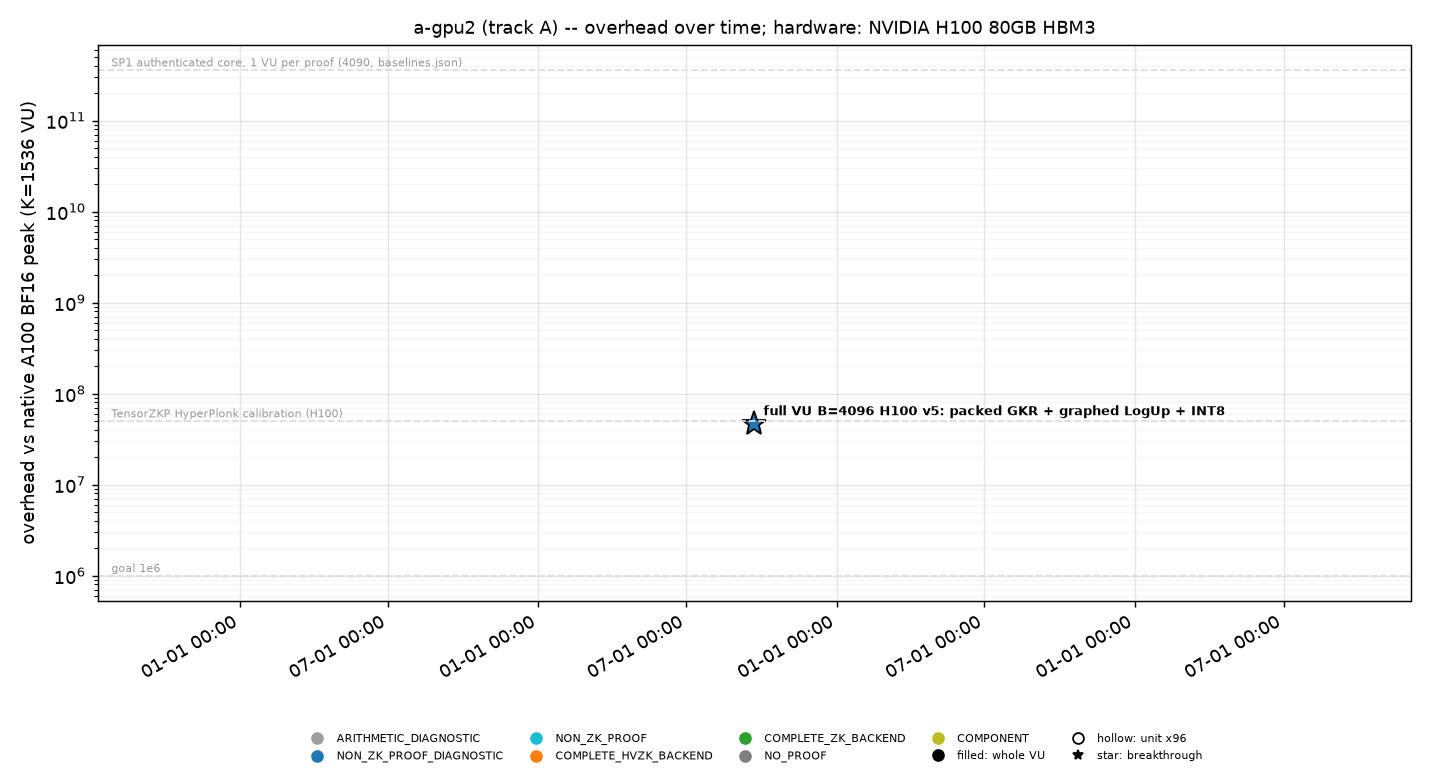
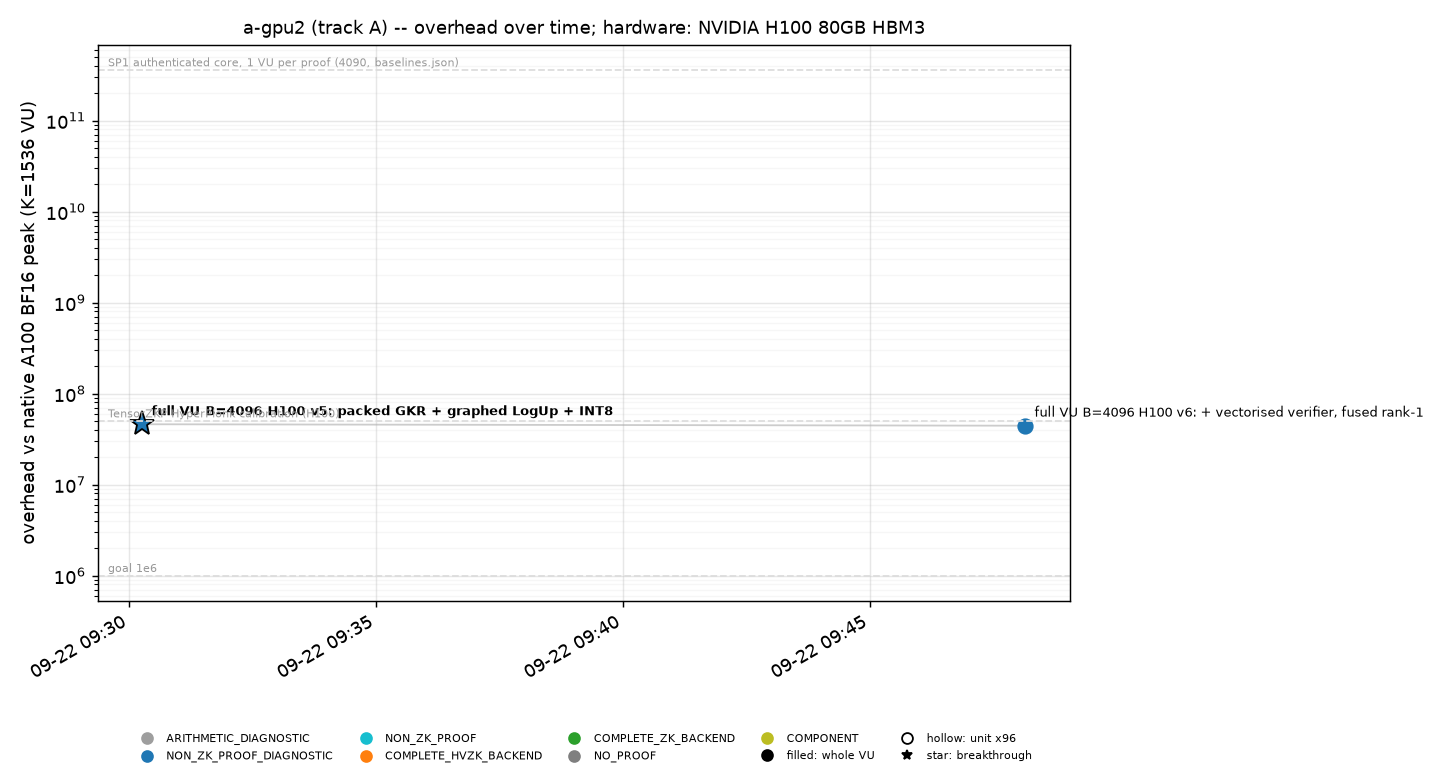
a-gpu2 v6: 1.790 s median x4096 (r20260922-094040-9e76), verifier 1.34 s, 52/52 negatives; ledger + plots + HANDOFF/README

diff --git a/backends/gkr/gpu/HANDOFF.md b/backends/gkr/gpu/HANDOFF.md
@@ -1,12 +1,16 @@
-# a-gpu2 handoff (2026-09-22 ~09:40Z)
+# a-gpu2 handoff (2026-09-22 ~09:55Z)
 
-State: **prover at 1.857 s median for the full K=1536 VU x4096 on the H100 (v5, run r20260922-092333-c8f0), a > 2x over
-a-gpu's 4.43 s, verified 4096/4096; the breakthrough entry is in `backends/numerical/reports/ledger/a-gpu2.jsonl`.**
-Branch `lane/a-gpu2` (includes the merge of `lane/a-fusion` 3718a4a).  Negatives on the v5 path: run
-r20260922-092923-6946 (`gpu.run negatives`, 52 expected rejected).
+State: **prover at 1.790 s median for the full K=1536 VU x4096 on the H100 (v6, run r20260922-094040-9e76; v5 1.857 in
+r20260922-092333-c8f0 was the breakthrough entry), 2.5x over a-gpu's 4.43 s, verified 4096/4096 x3; 52/52 negatives
+rejected on the v6 path (r20260922-094606-1813); verifier 1.34 s (was 7.1 s).**  Ledger:
+`backends/numerical/reports/ledger/a-gpu2.jsonl`.  Branch `lane/a-gpu2` (includes the merge of `lane/a-fusion` 3718a4a).
 
-Buckets v2e -> v5 (s): lookup 1.40 -> 0.43, arith 1.07 -> 0.66, open 1.44 -> 0.57, commit 0.45 -> 0.10, wires 0.07;
-verifier 6.5 s Python; proof 33.9 MB; depth 438; 1921 transcript slots; peak device memory 47.9 GB.
+Buckets v2e -> v6 (s): lookup 1.40 -> 0.43, arith 1.07 -> 0.66, open 1.44 -> 0.53, commit 0.45 -> 0.10, wires 0.07;
+verifier 7.1 -> 1.34 s (Python+torch); proof 33.9 MB; depth 438; 1921 transcript slots; peak device memory 47.9 GB.
+
+v6 over v5: `ligero.verify_open` evaluates every functional row at the 192 opened columns as one modular GEMM
+(`eval_rows_at`: INTT matrix x Vandermonde -- the same values as encode-then-gather) and `q(eta_j)` as a matmul
+(was a 1.6M-op Python Horner loop); every check kept.  Prover: `add_input_claim` as a fused rank-1 kernel.
 
 ## What changed (all bit-exact against the a-gpu torch path: same messages, root, opening)
 
@@ -49,6 +53,8 @@ verifier 6.5 s Python; proof 33.9 MB; depth 438; 1921 transcript slots; peak dev
 2. **Arith 0.66 s**: phase 2 (0.20 s: two `sumcheck_prod` chains of 10-11 rounds per layer, ~30 launches each) and
    `eval_gates` (0.13 s) are launch-bound; phase-1 host prep (~1.9 ms/round) could move into one prepared-inputs
    kernel (a-fusion's `prepare_inputs` / `sumcheck_layer_device` are sync-free for the standard layout).
-3. **Verifier**: 6.5 s Python; port to Rust over BabyBear^6 or vectorise (`eq_table`, interpolation, Merkle paths).
+3. **Verifier**: 1.34 s; the rest is `verify_table` (0.33 s), interpolation / `e_*` Python ext arithmetic over the
+   1552 transcript absorbs, `eq_table`; a Rust BabyBear^6 port (`backends/gkr/src/`, a-babybear's `field.rs`) would
+   take it well under 0.5 s.
 4. **B = 8192**: not attempted -- 47.9 GB peak at 4096 with ~20 GB of graph buffers resident; needs the int32 `acc.a`
    (step 1) first.

diff --git a/backends/gkr/gpu/README.md b/backends/gkr/gpu/README.md
@@ -17,6 +17,12 @@ it cannot check these proofs directly; the Python verifier is the same code path
 | v2c | 0d6437c | fused GKR phase-1 round; opening as tensor-core matmuls | 8.32 s | 1.49 / 1.85 / 4.46 / 0.45 | 8.9 s |
 | v2d | 428db0b | lookup functional as a CSR scatter kernel | 5.41 s | 1.53 / 1.95 / 1.41 / 0.45 | 7.1 s |
 | v2e | c4d472a | sparse gate evaluation; fused LogUp level combine | **4.43 s** | 1.40 / 1.07 / 1.44 / 0.45 | 7.1 s |
+| v5 | 9fb4180 | a-gpu2: packed k=3 GKR phase 1, CUDA-graphed LogUp (a-fusion), INT8 tensor-core opening, SIMT commit NTT | **1.857 s** | 0.43 / 0.66 / 0.57 / 0.10 | 6.5 s |
+| v6 | 5ad05fb | a-gpu2: vectorised Ligero verifier; fused rank-1 input-claim accumulate | **1.790 s** | 0.43 / 0.66 / 0.53 / 0.10 | 1.34 s |
+
+v5/v6 are transcript-identical to v2e's protocol (same round schedules and messages; the LogUp binding order is the
+low-bit-first schedule of v3, whose verifier port is unchanged); peak device memory 47.9 GB; `--warmup 1` excludes the
+one-off ~60 s LogUp graph compile/capture per process.  Negatives: 52/52 rejected on the v6 path (r20260922-094606-1813).
 
 Every run: 4096/4096 `vu-k1536` accepted with the recorded words, proof 33.9 MB (6086 extension elements + Ligero
 opening), `rounds.sequential_depth` 438 (circuit 197, LogUp R16 435), 1920 transcript slots, peak device memory
